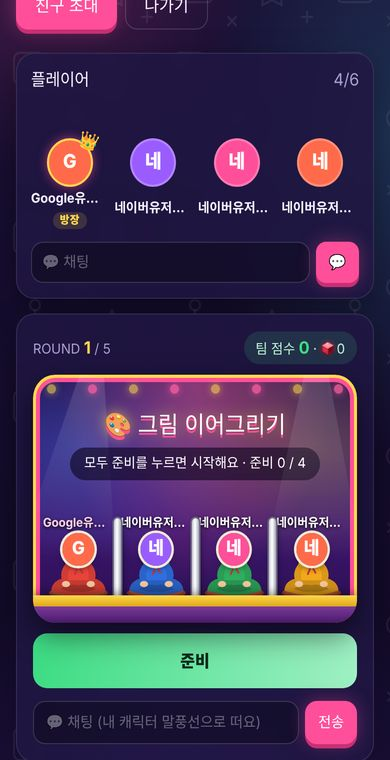
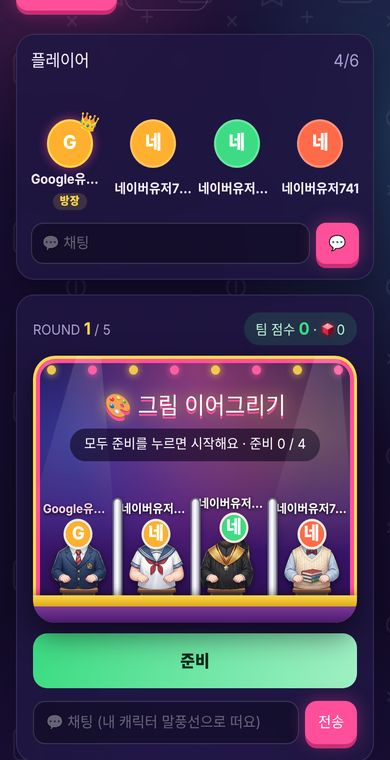
그림 이어그리기: 화이트보드·펜·지우개 그림(이름 표시), 출연자 몸통 6종
Claude-Session: https://claude.ai/code/session_018kcaK1YQGkv4UBC623yDa1

diff --git a/css/style.css b/css/style.css
@@ -3385,3 +3385,23 @@ button.dr-seat { cursor: pointer; } button.dr-seat:hover .sit-face { box-shadow:
 .dr-board { padding: 10px; border-radius: 8px; background: linear-gradient(145deg, #f4f5f8 0%, #b8bcc6 22%, #eef0f4 48%, #9ea3ae 75%, #e2e4ea 100%);
   box-shadow: inset 0 0 0 1px rgba(255, 255, 255, .8), inset 0 0 0 2px #8b909c, 0 6px 16px rgba(0, 0, 0, .45); }
 .dr-board .dr-cv { border-radius: 2px; box-shadow: inset 0 1px 3px rgba(0, 0, 0, .25); }
+/* 그림 이어그리기: 그림 화이트보드 · 도구 · 몸통 */
+.dr-board { position: relative; padding: 0; border-radius: 0; background: none; box-shadow: none; aspect-ratio: 695 / 505; filter: drop-shadow(0 6px 12px rgba(0, 0, 0, .45)); }
+.dr-frame { position: absolute; inset: 0; width: 100%; height: 100%; pointer-events: none; z-index: 1; }
+.dr-board .dr-cv { position: absolute; left: 2.73%; top: 3.76%; width: 94.54%; height: 90.7%; aspect-ratio: auto; border-radius: 0; box-shadow: none; z-index: 2; }
+.dr-tool { height: 66px; padding: 4px 2px; }
+.dr-tool img { width: 40px; height: 40px; object-fit: contain; filter: drop-shadow(0 2px 2px rgba(0, 0, 0, .4)); }
+.dr-tool small { font-size: 10.5px; font-weight: 700; white-space: nowrap; }
+.dr-wbmain { grid-template-columns: 1fr 70px; }
+.dr-resboard .dr-board { max-width: 460px; margin: 0 auto; }
+.dr-resboard .dr-cv { max-width: none; }
+.dr-seat .sit.sit-img .sit-fig { aspect-ratio: auto; }
+.dr-seat .sit-img .sit-face { width: 34%; }
+@media (orientation: landscape) and (max-height: 560px) {
+  .dr-wbmain { grid-template-columns: auto 70px; }
+  .dr-wbmain .dr-board { height: calc(100dvh - 120px); width: auto; padding: 0; }
+  .dr-wbmain .dr-cv, .dr-card.wide .dr-cv, .dr-resboard .dr-cv { height: 90.7%; width: 94.54%; }
+  .dr-card.wide .dr-board { max-height: 52dvh; width: auto; aspect-ratio: 695 / 505; }
+  .dr-resboard .dr-board { height: 62dvh; width: auto; max-width: none; }
+  .dr-tool { height: 50px; } .dr-tool img { width: 30px; height: 30px; }
+}

diff --git a/js/config.js b/js/config.js
@@ -1,6 +1,6 @@
 // 앱 이름
 export const APP_NAME = 'O게임';
-export const APP_VERSION = 'v10.56';
+export const APP_VERSION = 'v10.57';
 
 // Firebase 설정 — Firebase 콘솔 > 프로젝트 설정 > 내 앱 에서 복사한 값
 // apiKey를 비우면 "테스트 모드"로 동작합니다
